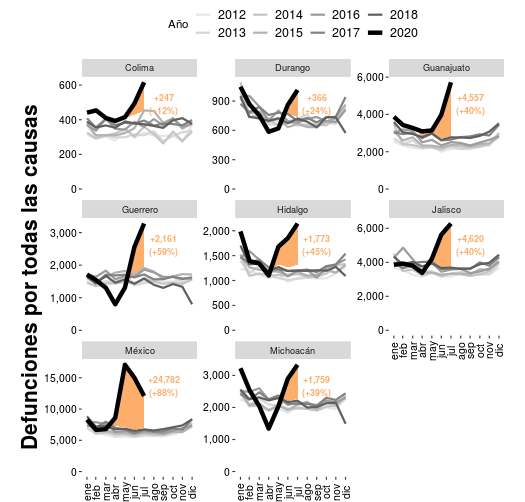
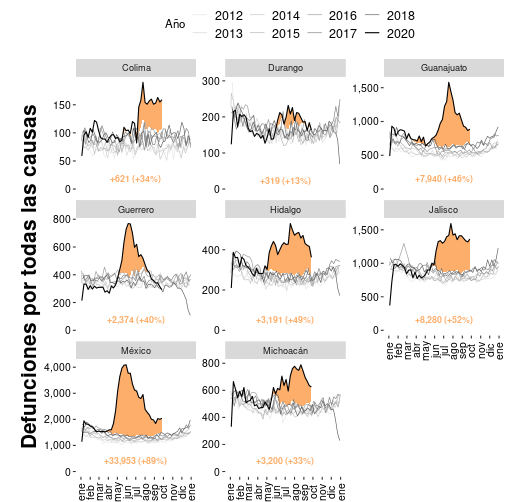
exceso de mortalidad y r efectiva

diff --git a/content/muertes/exceso_mortalidad_nacional.md b/content/muertes/exceso_mortalidad_nacional.md
@@ -7,34 +7,28 @@ la pandemia. Personas fallecen porque la saturación de los sistemas
 de salud no permite que sean atendidas, o porque se ven obligadas a estar
 encerradas con sus abusadores. Además, algunas muertes por COVID-19 no
 son diagnosticadas. En
-<a href="https://www.ft.com/content/6bd88b7d-3386-4543-b2e9-0d5c6fac846c" target="_blank">otros</a>
+<a href="https://www.ft.com/content/6bd88b7d-3386-4543-b2e9-0d5c6fac846c" target="_blank">numerosos</a>
 <a href="https://www.economist.com/graphic-detail/2020/07/15/tracking-covid-19-excess-deaths-across-countries">países</a>
-la pandemia ha incrementado el número de fallecimientos
-totales con respecto a años recientes.
-Esto se denomina <i>exceso de mortalidad</i>.</p>
+se ha observado que la pandemia provoca un <i>exceso de mortalidad</i>.</p>
 
-<p>En México, el número de defunciones totales desde
-el inicio de la pandemia y hasta el 31 de Julio es
-<b>62% mayor</b> que durante los mismos meses del período
-2012-2018.</p>
+<p>En México, desde el inicio de la pandemia y hasta el 26 de septiembre se han
+registrado <b>55% más defunciones</b> que en el mismo periodo de años previos.
+Estos números son preliminares ya que el catálogo nacional de defunciones
+tarda dos años en finalizarse.</p>
 
-<p>Estos números son preliminares ya que el
-catálogo nacional de defunciones tarda dos años en finalizarse.
-Los números de 2020
-fueron obtenidos y compartidos por
-<a href="https://proyecto.li/" target="_blank">PROYECTO Li</a>
-a partir de solicitudes de acceso a la información. Más información sobre
-sus análisis está en
-<a href="https://www.animalpolitico.com/2020/09/excesos-muertes-covid-mexico-cifras-epidemia/" target="_blank">Animal Político</a>.
-Hay algunas diferencias con el análisis de <b>CoronaMex</b> cuyos detalles están
-<a href="https://github.com/coronamex/visualizando/blob/master/muertes/exceso_mortalidad.r" target="_blank">aquí</a>.</p>'
+<p>Cada estado ha sido afectado
+<a href="/muertes#exceso_mortalidad_estados1">de manera diferente</a>. También
+puedes consultar
+<a href="https://github.com/coronamex/mortalidad/tree/master/datos_abiertos" target="_blank">los datos</a>,
+<a href="https://github.com/coronamex/visualizando/blob/master/muertes/exceso_mortalidad.r" target="_blank">el código</a>,
+y el <a href="https://coronavirus.gob.mx/exceso-de-mortalidad-en-mexico/" target="_blank">análisis del gobierno</a>.</p>'
 imagen: "imagenes/exceso_mortalidad_nacional.png"
 imagen2x: "imagenes/exceso_mortalidad_nacional@2x.png"
 alt: 'Exceso de mortalidad por la epidemia de COVID-19 en México. El número
 de defunciones reportadas en el periodo 2012-2018 se compara con el año 2020.
 En naranja se muestra el período con exceso de mortalidad.'
-principal: false
-Weight: 660
+principal: true
+Weight: 1135
 secciones: ["muertes"]
 etiquetas: ["muertes", "serie_tiempo", "nacional", "zona_metropolitana", "estimado"]
 ---

diff --git a/content/muertes/exceso_mortalidad_estados1.md b/content/muertes/exceso_mortalidad_estados1.md
@@ -2,27 +2,20 @@
 title: "Exceso de mortalidad estatal (1/4)"
 name: "exceso_mortalidad_estados1"
 draft: false
-descripcion: '<p>Cada entidad federativa del país tiene característcas
-propias y una epidemia única. De hecho, la mayoría de las entidades
-se componen de varias epidemias más pequeñas, y algunas zonas metropolitanas
-cruzan las líneas estatales.</p>
+descripcion: '<p>Cada entidad ha sido afectada de diferentes maneras y
+en diferentes momentos. El <i>exceso de mortalidad</i> nos permite
+medir el costo humano en cada entidad.</p>
 
 <p>Estas gráficas muestran el
 <a href="#exceso_mortalidad_nacional"><i>exceso de mortalidad</i></a>
-hasta el 31 de Julio para 8 de las 32 entidades federativas del país. La región
-con color indica los meses con exceso de mortalidad. Se indica el número
-absoluto de exceso de mortalidad para canda entidad y el incremento porcentual.
-Las entidades federativas están organizadas alfabéticamente.
-Sube o baja en la página para ver más entidades.</p>
+hasta el 26 de septiembre para 8 de las 32 entidades federativas del país.
+La región con color indica las semanas con <i>exceso de mortalidad</i>.
+Se indica el número absoluto de exceso de mortalidad para canda entidad y el
+incremento porcentual. Las entidades federativas están organizadas
+alfabéticamente. Sube o baja en la página para ver más entidades.</p>
 
 <p>Estos números son preliminares ya que el
-catálogo nacional de defunciones tarda dos años en finalizarse.
-Los números de 2020
-fueron obtenidos y compartidos por
-<a href="https://proyecto.li/" target="_blank">PROYECTO Li</a>
-a partir de solicitudes de acceso a la información.
-Hay algunas diferencias con el análisis de <b>CoronaMex</b> cuyos detalles están
-<a href="https://github.com/coronamex/visualizando/blob/master/muertes/exceso_mortalidad.r" target="_blank">aquí</a>.</p>'
+catálogo nacional de defunciones tarda dos años en finalizarse.</p>'
 
 imagen: "imagenes/exceso_mortalidad_estados1.png"
 imagen2x: "imagenes/exceso_mortalidad_estados1@2x.png"
@@ -31,7 +24,7 @@ entidades federativas de México. El número
 de defunciones reportadas en el periodo 2012-2018 se compara con el año 2020.
 En naranja se muestra el período con exceso de mortalidad.'
 principal: false
-Weight: 662
+Weight: 1136
 secciones: ["muertes"]
 etiquetas: ["muertes", "serie_tiempo", "nacional", "zona_metropolitana", "estimado"]
 ---

diff --git a/content/muertes/exceso_mortalidad_estados2.md b/content/muertes/exceso_mortalidad_estados2.md
@@ -2,27 +2,20 @@
 title: "Exceso de mortalidad estatal (2/4)"
 name: "exceso_mortalidad_estados1"
 draft: false
-descripcion: '<p>Cada entidad federativa del país tiene característcas
-propias y una epidemia única. De hecho, la mayoría de las entidades
-se componen de varias epidemias más pequeñas, y algunas zonas metropolitanas
-cruzan las líneas estatales.</p>
+descripcion: '<p>Cada entidad ha sido afectada de diferentes maneras y
+en diferentes momentos. El <i>exceso de mortalidad</i> nos permite
+medir el costo humano en cada entidad.</p>
 
 <p>Estas gráficas muestran el
 <a href="#exceso_mortalidad_nacional"><i>exceso de mortalidad</i></a>
-hasta el 31 de Julio para 8 de las 32 entidades federativas del país. La región
-con color indica los meses con exceso de mortalidad. Se indica el número
-absoluto de exceso de mortalidad para canda entidad y el incremento porcentual.
-Las entidades federativas están organizadas alfabéticamente.
-Sube o baja en la página para ver más entidades.</p>
+hasta el 26 de septiembre para 8 de las 32 entidades federativas del país.
+La región con color indica las semanas con <i>exceso de mortalidad</i>.
+Se indica el número absoluto de exceso de mortalidad para canda entidad y el
+incremento porcentual. Las entidades federativas están organizadas
+alfabéticamente. Sube o baja en la página para ver más entidades.</p>
 
 <p>Estos números son preliminares ya que el
-catálogo nacional de defunciones tarda dos años en finalizarse.
-Los números de 2020
-fueron obtenidos y compartidos por
-<a href="https://proyecto.li/" target="_blank">PROYECTO Li</a>
-a partir de solicitudes de acceso a la información.
-Hay algunas diferencias con el análisis de <b>CoronaMex</b> cuyos detalles están
-<a href="https://github.com/coronamex/visualizando/blob/master/muertes/exceso_mortalidad.r" target="_blank">aquí</a>.</p>'
+catálogo nacional de defunciones tarda dos años en finalizarse.</p>'
 
 imagen: "imagenes/exceso_mortalidad_estados2.png"
 imagen2x: "imagenes/exceso_mortalidad_estados2@2x.png"
@@ -31,7 +24,7 @@ entidades federativas de México. El número
 de defunciones reportadas en el periodo 2012-2018 se compara con el año 2020.
 En naranja se muestra el período con exceso de mortalidad.'
 principal: false
-Weight: 664
+Weight: 1137
 secciones: ["muertes"]
 etiquetas: ["muertes", "serie_tiempo", "nacional", "zona_metropolitana", "estimado"]
 ---

diff --git a/content/muertes/exceso_mortalidad_estados3.md b/content/muertes/exceso_mortalidad_estados3.md
@@ -2,27 +2,20 @@
 title: "Exceso de mortalidad estatal (3/4)"
 name: "exceso_mortalidad_estados1"
 draft: false
-descripcion: '<p>Cada entidad federativa del país tiene característcas
-propias y una epidemia única. De hecho, la mayoría de las entidades
-se componen de varias epidemias más pequeñas, y algunas zonas metropolitanas
-cruzan las líneas estatales.</p>
+descripcion: '<p>Cada entidad ha sido afectada de diferentes maneras y
+en diferentes momentos. El <i>exceso de mortalidad</i> nos permite
+medir el costo humano en cada entidad.</p>
 
 <p>Estas gráficas muestran el
 <a href="#exceso_mortalidad_nacional"><i>exceso de mortalidad</i></a>
-hasta el 31 de Julio para 8 de las 32 entidades federativas del país. La región
-con color indica los meses con exceso de mortalidad. Se indica el número
-absoluto de exceso de mortalidad para canda entidad y el incremento porcentual.
-Las entidades federativas están organizadas alfabéticamente.
-Sube o baja en la página para ver más entidades.</p>
+hasta el 26 de septiembre para 8 de las 32 entidades federativas del país.
+La región con color indica las semanas con <i>exceso de mortalidad</i>.
+Se indica el número absoluto de exceso de mortalidad para canda entidad y el
+incremento porcentual. Las entidades federativas están organizadas
+alfabéticamente. Sube o baja en la página para ver más entidades.</p>
 
 <p>Estos números son preliminares ya que el
-catálogo nacional de defunciones tarda dos años en finalizarse.
-Los números de 2020
-fueron obtenidos y compartidos por
-<a href="https://proyecto.li/" target="_blank">PROYECTO Li</a>
-a partir de solicitudes de acceso a la información.
-Hay algunas diferencias con el análisis de <b>CoronaMex</b> cuyos detalles están
-<a href="https://github.com/coronamex/visualizando/blob/master/muertes/exceso_mortalidad.r" target="_blank">aquí</a>.</p>'
+catálogo nacional de defunciones tarda dos años en finalizarse.</p>'
 
 imagen: "imagenes/exceso_mortalidad_estados3.png"
 imagen2x: "imagenes/exceso_mortalidad_estados3@2x.png"
@@ -31,7 +24,7 @@ entidades federativas de México. El número
 de defunciones reportadas en el periodo 2012-2018 se compara con el año 2020.
 En naranja se muestra el período con exceso de mortalidad.'
 principal: false
-Weight: 666
+Weight: 1138
 secciones: ["muertes"]
 etiquetas: ["muertes", "serie_tiempo", "nacional", "zona_metropolitana", "estimado"]
 ---

diff --git a/content/muertes/exceso_mortalidad_estados4.md b/content/muertes/exceso_mortalidad_estados4.md
@@ -2,27 +2,20 @@
 title: "Exceso de mortalidad estatal (4/4)"
 name: "exceso_mortalidad_estados1"
 draft: false
-descripcion: '<p>Cada entidad federativa del país tiene característcas
-propias y una epidemia única. De hecho, la mayoría de las entidades
-se componen de varias epidemias más pequeñas, y algunas zonas metropolitanas
-cruzan las líneas estatales.</p>
+descripcion: '<p>Cada entidad ha sido afectada de diferentes maneras y
+en diferentes momentos. El <i>exceso de mortalidad</i> nos permite
+medir el costo humano en cada entidad.</p>
 
 <p>Estas gráficas muestran el
 <a href="#exceso_mortalidad_nacional"><i>exceso de mortalidad</i></a>
-hasta el 31 de Julio para 8 de las 32 entidades federativas del país. La región
-con color indica los meses con exceso de mortalidad. Se indica el número
-absoluto de exceso de mortalidad para canda entidad y el incremento porcentual.
-Las entidades federativas están organizadas alfabéticamente.
-Sube o baja en la página para ver más entidades.</p>
+hasta el 26 de septiembre para 8 de las 32 entidades federativas del país.
+La región con color indica las semanas con <i>exceso de mortalidad</i>.
+Se indica el número absoluto de exceso de mortalidad para canda entidad y el
+incremento porcentual. Las entidades federativas están organizadas
+alfabéticamente. Sube o baja en la página para ver más entidades.</p>
 
 <p>Estos números son preliminares ya que el
-catálogo nacional de defunciones tarda dos años en finalizarse.
-Los números de 2020
-fueron obtenidos y compartidos por
-<a href="https://proyecto.li/" target="_blank">PROYECTO Li</a>
-a partir de solicitudes de acceso a la información.
-Hay algunas diferencias con el análisis de <b>CoronaMex</b> cuyos detalles están
-<a href="https://github.com/coronamex/visualizando/blob/master/muertes/exceso_mortalidad.r" target="_blank">aquí</a>.</p>'
+catálogo nacional de defunciones tarda dos años en finalizarse.</p>'
 
 imagen: "imagenes/exceso_mortalidad_estados4.png"
 imagen2x: "imagenes/exceso_mortalidad_estados4@2x.png"
@@ -31,7 +24,7 @@ entidades federativas de México. El número
 de defunciones reportadas en el periodo 2012-2018 se compara con el año 2020.
 En naranja se muestra el período con exceso de mortalidad.'
 principal: false
-Weight: 668
+Weight: 1139
 secciones: ["muertes"]
 etiquetas: ["muertes", "serie_tiempo", "nacional", "zona_metropolitana", "estimado"]
 ---

diff --git a/content/muertes/letalidad.md b/content/muertes/letalidad.md
@@ -26,7 +26,7 @@ SEIRD. Dos estimadores de letalidad (instantánea y con retraso) se muestran.
 Ninguno hace un buen trabajo durante la epidemia pero convergen una vez
 que el pico epidémico ha pasado.'
 principal: false
-Weight: 1300
+Weight: 1170
 secciones: ["muertes"]
 etiquetas: ["muertes", "serie_tiempo", "modelo", "letalidad", "concepto"]
 ---

diff --git a/content/muertes/letalidad_mexico.md b/content/muertes/letalidad_mexico.md
@@ -23,7 +23,7 @@ imagen2x: "imagenes/letalidad_mexico@2x.png"
 alt: 'Letalidad por COVID-19 en México a lo largo del tiempo. Se muestran
 estimadores de la letalide instantánea y con un retraso de nueve días.'
 principal: false
-Weight: 1400
+Weight: 1190
 secciones: ["muertes"]
 etiquetas: ["muertes", "tiempo", "letalidad", "nacional"]
 ---

diff --git a/content/muertes/muertes_region.md b/content/muertes/muertes_region.md
@@ -26,7 +26,7 @@ imagen2x: "imagenes/muertes_region@2x.png"
 alt: 'Muertes confirmadas por COVID-19 por fecha de defunción por
 región de México.'
 principal: false
-Weight: 700
+Weight: 1150
 secciones: ["principal", "muertes"]
 etiquetas: ["muertes", "serie_tiempo", "nacional"]
 ---
